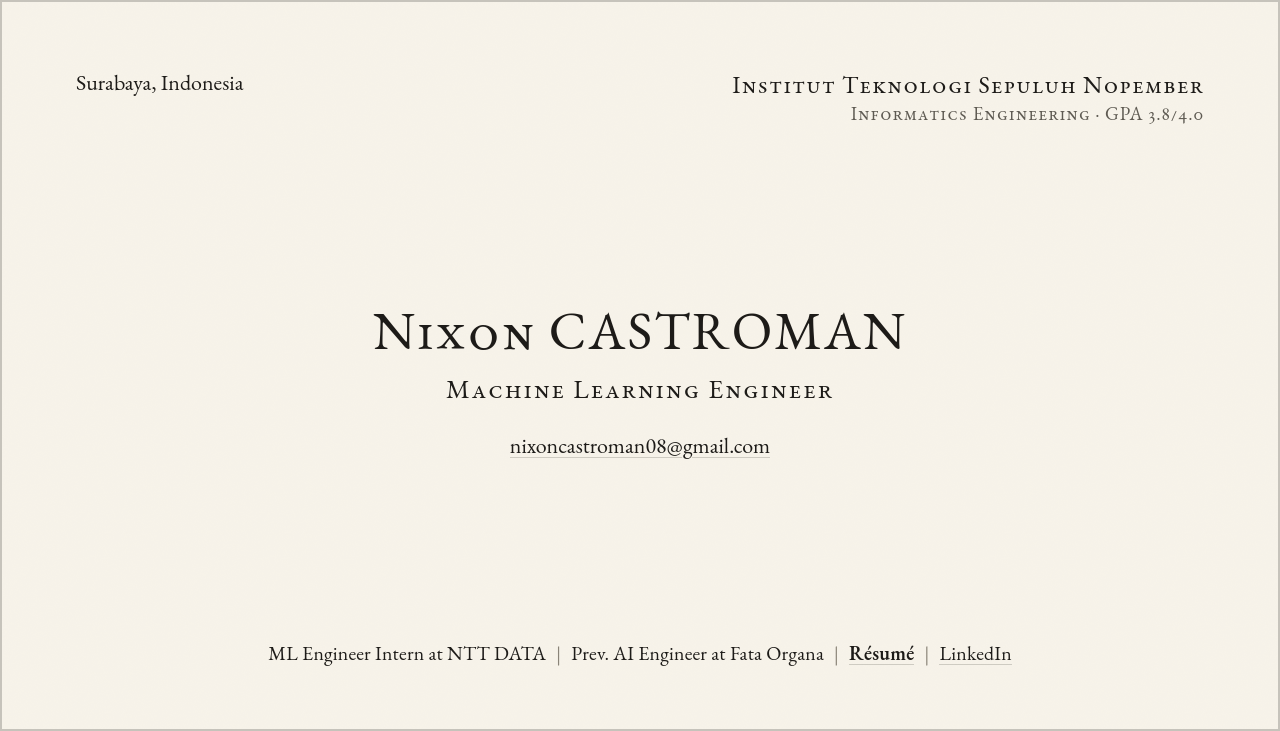
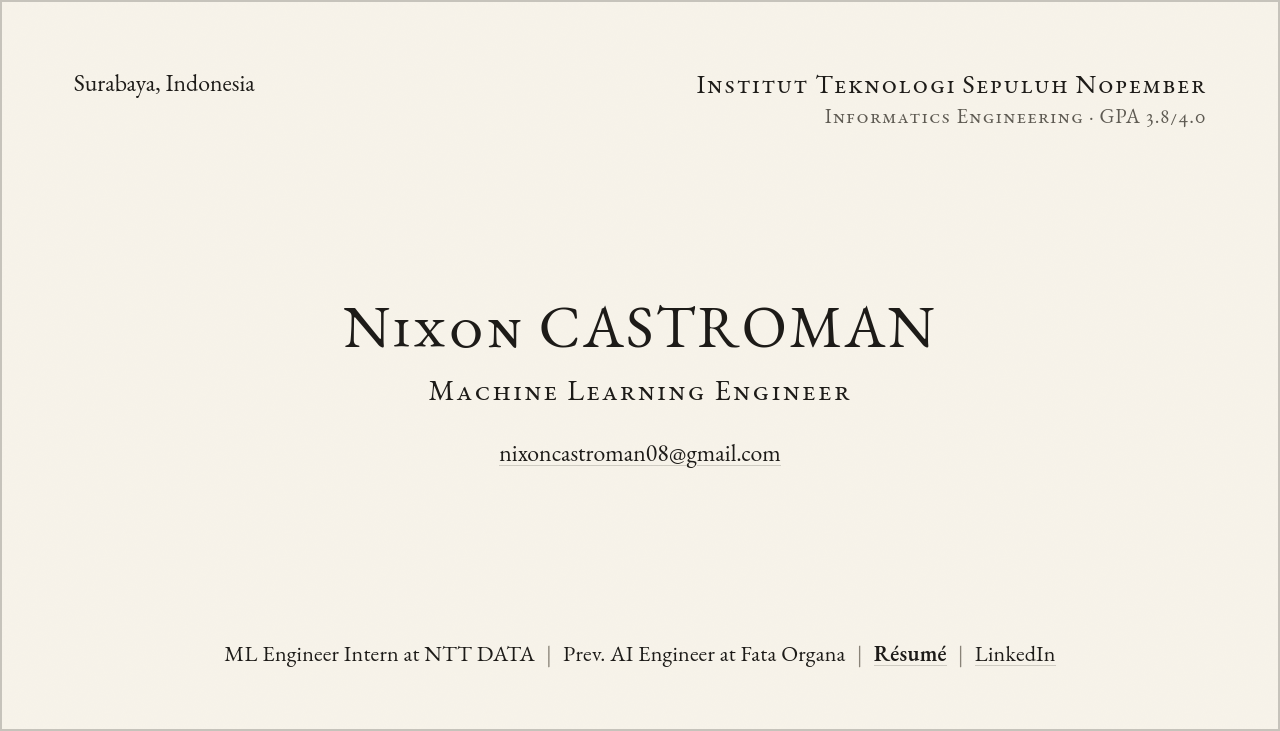
Larger card text

diff --git a/README.md b/README.md
@@ -1,6 +1,6 @@
 <p align="center">
   <a href="https://nixoncastroman.github.io">
-    <img src="card.png" width="640" alt="Nixon Castroman. Machine Learning Engineer. Institut Teknologi Sepuluh Nopember, Informatics Engineering. nixoncastroman08@gmail.com">
+    <img src="card.png" width="820" alt="Nixon Castroman. Machine Learning Engineer. Institut Teknologi Sepuluh Nopember, Informatics Engineering. nixoncastroman08@gmail.com">
   </a>
 </p>
 
